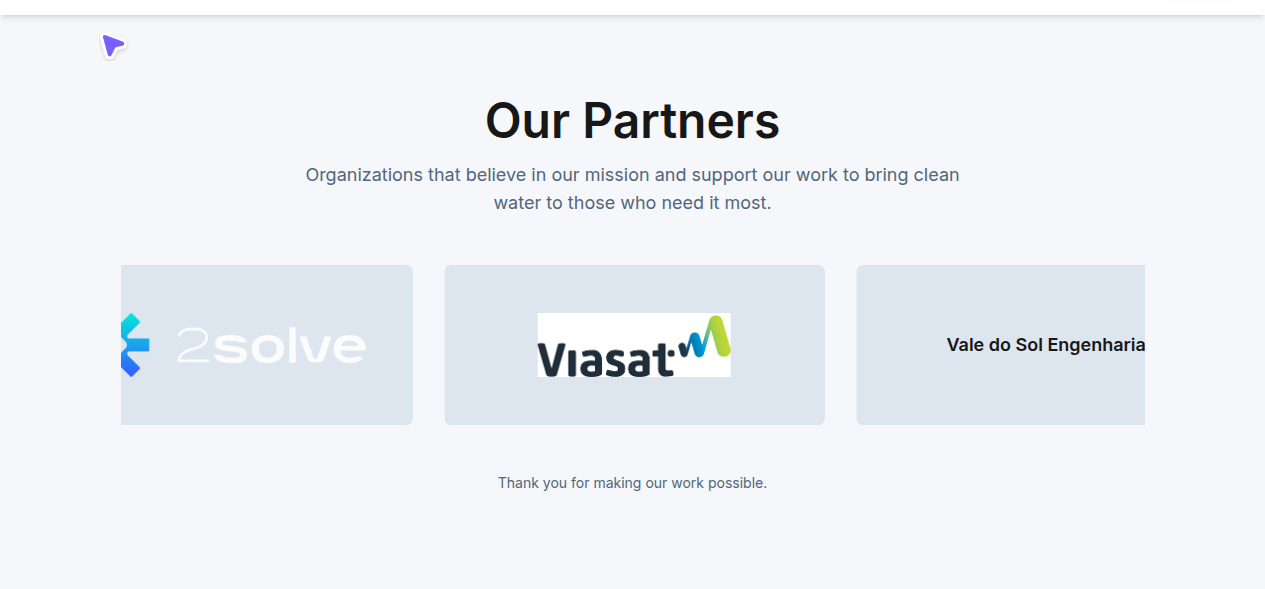
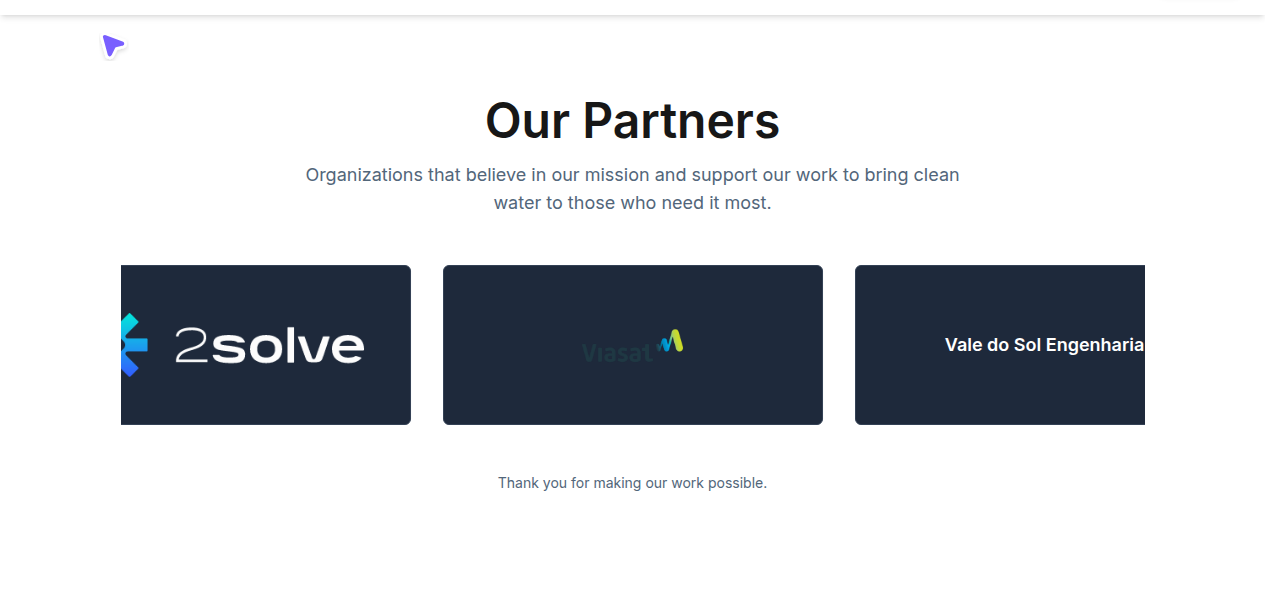
Improve visibility of partner cards by changing background and text colors
Updated the background color of partner cards to `bg-slate-800 dark:bg-slate-700` and the text color to `text-white` for better contrast and readability in the `Partners.tsx` component.

Replit-Commit-Author: Agent
Replit-Commit-Session-Id: 1b30c2a6-eef6-498d-9404-3a3d4e3708ea
Replit-Commit-Checkpoint-Type: full_checkpoint
Replit-Commit-Event-Id: 77f608fe-6b4a-4bbb-9428-6edf1def7efb
Replit-Commit-Screenshot-Url: https://storage.googleapis.com/screenshot-production-us-central1/c4bfa849-d2bb-4516-9db5-89b7ad568987/1b30c2a6-eef6-498d-9404-3a3d4e3708ea/u2PJgUD

Changed region(s): [[0.0925, 0.4278, 0.9249, 0.7334]]

diff --git a/client/src/components/Partners.tsx b/client/src/components/Partners.tsx
@@ -71,7 +71,7 @@ export default function Partners() {
                   href={partner.website}
                   target="_blank"
                   rel="noopener noreferrer"
-                  className="flex items-center justify-center p-10 rounded-md bg-card border hover-elevate active-elevate-2 transition-all h-40 w-full"
+                  className="flex items-center justify-center p-10 rounded-md bg-slate-800 dark:bg-slate-700 border border-slate-700 dark:border-slate-600 hover-elevate active-elevate-2 transition-all h-40 w-full"
                   data-testid={`link-partner-${partner.name.toLowerCase().replace(/\s+/g, '-')}`}
                 >
                   {partner.logo ? (
@@ -82,7 +82,7 @@ export default function Partners() {
                       data-testid={`img-partner-${partner.name.toLowerCase().replace(/\s+/g, '-')}`}
                     />
                   ) : (
-                    <span className="text-center font-semibold text-lg">
+                    <span className="text-center font-semibold text-lg text-white">
                       {partner.name}
                     </span>
                   )}
